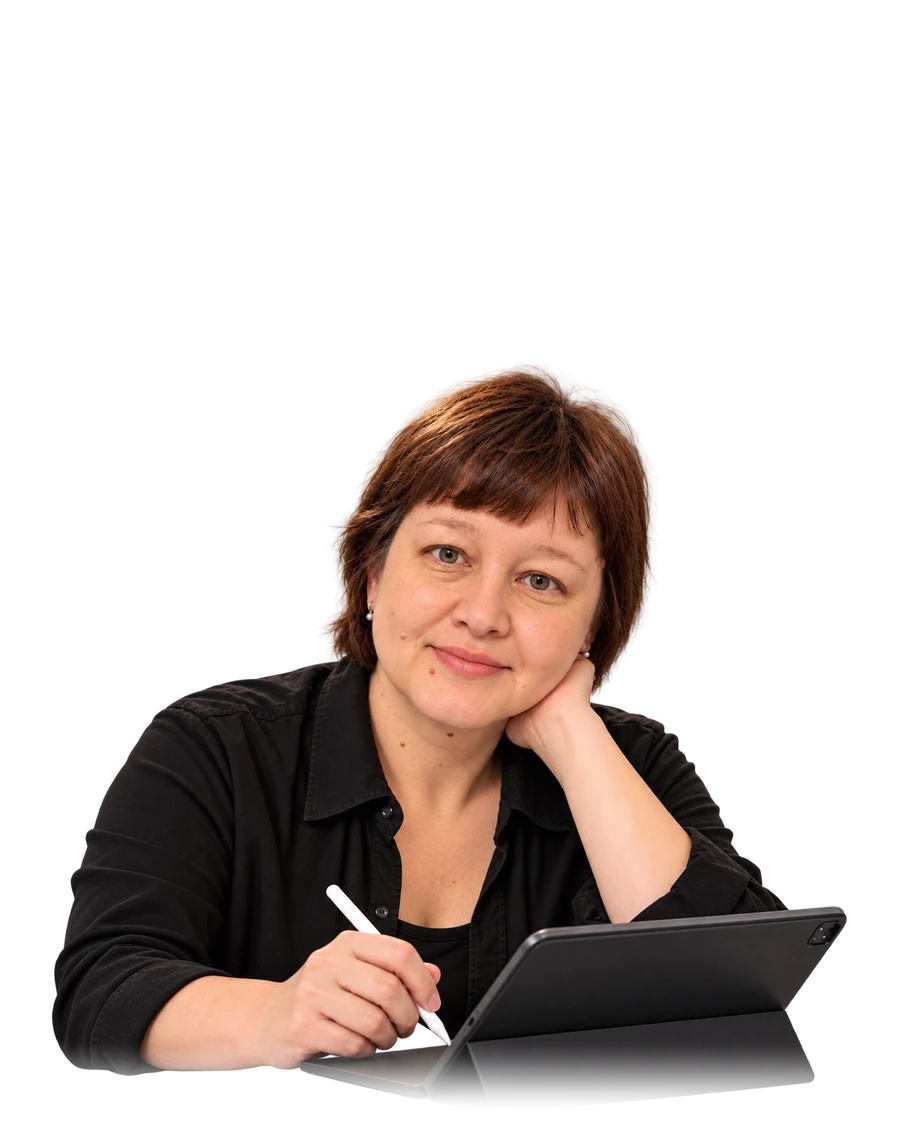
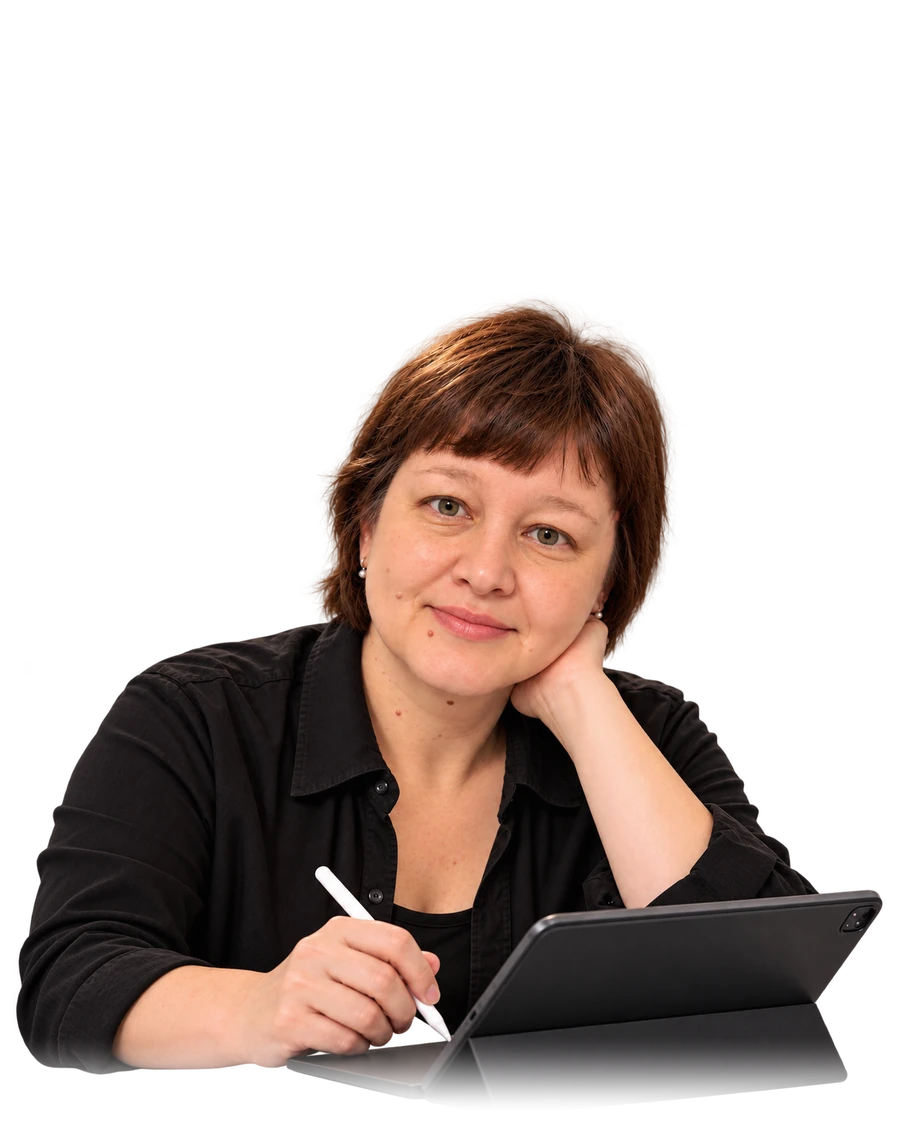
Обновление 03.10 18:34 МСК

Changed region(s): [[0.0, 0.2484, 0.9956, 0.9627], [0.2489, 0.9317, 0.28, 0.9627]]

diff --git a/index.html b/index.html
@@ -201,17 +201,10 @@
 @media (min-width: 900px) { .блок--первый-экран.блок--первый-экран > .блок__внутри { width: calc(100% - 2 * var(--отступ-блока)); } }   /* разворот на компьютере и так на всё окно, фото до края */
 /* по просьбе: на обложке фото без размытого края — туман снизу и по бокам снят (03.10.2026) */
 .первый-экран--разворот.первый-экран--разворот .первый-экран__картинка.картинка--край img { mask-image: none; -webkit-mask-image: none; }
-/* по просьбе: светлый и тёмный блоки перетекают друг в друга, без резкой границы (03.10.2026).
-   Переход живёт в полях тёмного блока: сверху цвет блока над ним, снизу — блока под ним; поля шире на высоту перехода */
-#экран-03, #экран-05, #экран-07, #экран-09 { --переход: clamp(90px, 9vw, 140px); }  /* переход короткий и плавный (03.10.2026: «меньше и плавнее») */
-#экран-03 { background: linear-gradient(rgb(237 230 218 / 1.000) calc(var(--переход) * 0), rgb(237 230 218 / 0.999) calc(var(--переход) * 0.05), rgb(237 230 218 / 0.991) calc(var(--переход) * 0.1), rgb(237 230 218 / 0.973) calc(var(--переход) * 0.15), rgb(237 230 218 / 0.942) calc(var(--переход) * 0.2), rgb(237 230 218 / 0.896) calc(var(--переход) * 0.25), rgb(237 230 218 / 0.837) calc(var(--переход) * 0.3), rgb(237 230 218 / 0.765) calc(var(--переход) * 0.35), rgb(237 230 218 / 0.683) calc(var(--переход) * 0.4), rgb(237 230 218 / 0.593) calc(var(--переход) * 0.45), rgb(237 230 218 / 0.500) calc(var(--переход) * 0.5), rgb(237 230 218 / 0.407) calc(var(--переход) * 0.55), rgb(237 230 218 / 0.317) calc(var(--переход) * 0.6), rgb(237 230 218 / 0.235) calc(var(--переход) * 0.65), rgb(237 230 218 / 0.163) calc(var(--переход) * 0.7), rgb(237 230 218 / 0.104) calc(var(--переход) * 0.75), rgb(237 230 218 / 0.058) calc(var(--переход) * 0.8), rgb(237 230 218 / 0.027) calc(var(--переход) * 0.85), rgb(237 230 218 / 0.009) calc(var(--переход) * 0.9), rgb(237 230 218 / 0.001) calc(var(--переход) * 0.95), rgb(237 230 218 / 0.000) calc(var(--переход) * 1)), linear-gradient(to top, rgb(237 230 218 / 1.000) calc(var(--переход) * 0), rgb(237 230 218 / 0.999) calc(var(--переход) * 0.05), rgb(237 230 218 / 0.991) calc(var(--переход) * 0.1), rgb(237 230 218 / 0.973) calc(var(--переход) * 0.15), rgb(237 230 218 / 0.942) calc(var(--переход) * 0.2), rgb(237 230 218 / 0.896) calc(var(--переход) * 0.25), rgb(237 230 218 / 0.837) calc(var(--переход) * 0.3), rgb(237 230 218 / 0.765) calc(var(--переход) * 0.35), rgb(237 230 218 / 0.683) calc(var(--переход) * 0.4), rgb(237 230 218 / 0.593) calc(var(--переход) * 0.45), rgb(237 230 218 / 0.500) calc(var(--переход) * 0.5), rgb(237 230 218 / 0.407) calc(var(--переход) * 0.55), rgb(237 230 218 / 0.317) calc(var(--переход) * 0.6), rgb(237 230 218 / 0.235) calc(var(--переход) * 0.65), rgb(237 230 218 / 0.163) calc(var(--переход) * 0.7), rgb(237 230 218 / 0.104) calc(var(--переход) * 0.75), rgb(237 230 218 / 0.058) calc(var(--переход) * 0.8), rgb(237 230 218 / 0.027) calc(var(--переход) * 0.85), rgb(237 230 218 / 0.009) calc(var(--переход) * 0.9), rgb(237 230 218 / 0.001) calc(var(--переход) * 0.95), rgb(237 230 218 / 0.000) calc(var(--переход) * 1)), linear-gradient(160deg, #111111, #1E1B17 70%, #111111); }
-#экран-05 { background: linear-gradient(rgb(250 248 244 / 1.000) calc(var(--переход) * 0), rgb(250 248 244 / 0.999) calc(var(--переход) * 0.05), rgb(250 248 244 / 0.991) calc(var(--переход) * 0.1), rgb(250 248 244 / 0.973) calc(var(--переход) * 0.15), rgb(250 248 244 / 0.942) calc(var(--переход) * 0.2), rgb(250 248 244 / 0.896) calc(var(--переход) * 0.25), rgb(250 248 244 / 0.837) calc(var(--переход) * 0.3), rgb(250 248 244 / 0.765) calc(var(--переход) * 0.35), rgb(250 248 244 / 0.683) calc(var(--переход) * 0.4), rgb(250 248 244 / 0.593) calc(var(--переход) * 0.45), rgb(250 248 244 / 0.500) calc(var(--переход) * 0.5), rgb(250 248 244 / 0.407) calc(var(--переход) * 0.55), rgb(250 248 244 / 0.317) calc(var(--переход) * 0.6), rgb(250 248 244 / 0.235) calc(var(--переход) * 0.65), rgb(250 248 244 / 0.163) calc(var(--переход) * 0.7), rgb(250 248 244 / 0.104) calc(var(--переход) * 0.75), rgb(250 248 244 / 0.058) calc(var(--переход) * 0.8), rgb(250 248 244 / 0.027) calc(var(--переход) * 0.85), rgb(250 248 244 / 0.009) calc(var(--переход) * 0.9), rgb(250 248 244 / 0.001) calc(var(--переход) * 0.95), rgb(250 248 244 / 0.000) calc(var(--переход) * 1)), linear-gradient(to top, rgb(250 248 244 / 1.000) calc(var(--переход) * 0), rgb(250 248 244 / 0.999) calc(var(--переход) * 0.05), rgb(250 248 244 / 0.991) calc(var(--переход) * 0.1), rgb(250 248 244 / 0.973) calc(var(--переход) * 0.15), rgb(250 248 244 / 0.942) calc(var(--переход) * 0.2), rgb(250 248 244 / 0.896) calc(var(--переход) * 0.25), rgb(250 248 244 / 0.837) calc(var(--переход) * 0.3), rgb(250 248 244 / 0.765) calc(var(--переход) * 0.35), rgb(250 248 244 / 0.683) calc(var(--переход) * 0.4), rgb(250 248 244 / 0.593) calc(var(--переход) * 0.45), rgb(250 248 244 / 0.500) calc(var(--переход) * 0.5), rgb(250 248 244 / 0.407) calc(var(--переход) * 0.55), rgb(250 248 244 / 0.317) calc(var(--переход) * 0.6), rgb(250 248 244 / 0.235) calc(var(--переход) * 0.65), rgb(250 248 244 / 0.163) calc(var(--переход) * 0.7), rgb(250 248 244 / 0.104) calc(var(--переход) * 0.75), rgb(250 248 244 / 0.058) calc(var(--переход) * 0.8), rgb(250 248 244 / 0.027) calc(var(--переход) * 0.85), rgb(250 248 244 / 0.009) calc(var(--переход) * 0.9), rgb(250 248 244 / 0.001) calc(var(--переход) * 0.95), rgb(250 248 244 / 0.000) calc(var(--переход) * 1)), linear-gradient(160deg, #111111, #1E1B17 70%, #111111); }
-#экран-07 { background: linear-gradient(rgb(237 230 218 / 1.000) calc(var(--переход) * 0), rgb(237 230 218 / 0.999) calc(var(--переход) * 0.05), rgb(237 230 218 / 0.991) calc(var(--переход) * 0.1), rgb(237 230 218 / 0.973) calc(var(--переход) * 0.15), rgb(237 230 218 / 0.942) calc(var(--переход) * 0.2), rgb(237 230 218 / 0.896) calc(var(--переход) * 0.25), rgb(237 230 218 / 0.837) calc(var(--переход) * 0.3), rgb(237 230 218 / 0.765) calc(var(--переход) * 0.35), rgb(237 230 218 / 0.683) calc(var(--переход) * 0.4), rgb(237 230 218 / 0.593) calc(var(--переход) * 0.45), rgb(237 230 218 / 0.500) calc(var(--переход) * 0.5), rgb(237 230 218 / 0.407) calc(var(--переход) * 0.55), rgb(237 230 218 / 0.317) calc(var(--переход) * 0.6), rgb(237 230 218 / 0.235) calc(var(--переход) * 0.65), rgb(237 230 218 / 0.163) calc(var(--переход) * 0.7), rgb(237 230 218 / 0.104) calc(var(--переход) * 0.75), rgb(237 230 218 / 0.058) calc(var(--переход) * 0.8), rgb(237 230 218 / 0.027) calc(var(--переход) * 0.85), rgb(237 230 218 / 0.009) calc(var(--переход) * 0.9), rgb(237 230 218 / 0.001) calc(var(--переход) * 0.95), rgb(237 230 218 / 0.000) calc(var(--переход) * 1)), linear-gradient(to top, rgb(250 248 244 / 1.000) calc(var(--переход) * 0), rgb(250 248 244 / 0.999) calc(var(--переход) * 0.05), rgb(250 248 244 / 0.991) calc(var(--переход) * 0.1), rgb(250 248 244 / 0.973) calc(var(--переход) * 0.15), rgb(250 248 244 / 0.942) calc(var(--переход) * 0.2), rgb(250 248 244 / 0.896) calc(var(--переход) * 0.25), rgb(250 248 244 / 0.837) calc(var(--переход) * 0.3), rgb(250 248 244 / 0.765) calc(var(--переход) * 0.35), rgb(250 248 244 / 0.683) calc(var(--переход) * 0.4), rgb(250 248 244 / 0.593) calc(var(--переход) * 0.45), rgb(250 248 244 / 0.500) calc(var(--переход) * 0.5), rgb(250 248 244 / 0.407) calc(var(--переход) * 0.55), rgb(250 248 244 / 0.317) calc(var(--переход) * 0.6), rgb(250 248 244 / 0.235) calc(var(--переход) * 0.65), rgb(250 248 244 / 0.163) calc(var(--переход) * 0.7), rgb(250 248 244 / 0.104) calc(var(--переход) * 0.75), rgb(250 248 244 / 0.058) calc(var(--переход) * 0.8), rgb(250 248 244 / 0.027) calc(var(--переход) * 0.85), rgb(250 248 244 / 0.009) calc(var(--переход) * 0.9), rgb(250 248 244 / 0.001) calc(var(--переход) * 0.95), rgb(250 248 244 / 0.000) calc(var(--переход) * 1)), linear-gradient(160deg, #111111, #1E1B17 70%, #111111); }
-#экран-09 { background: linear-gradient(rgb(250 248 244 / 1.000) calc(var(--переход) * 0), rgb(250 248 244 / 0.999) calc(var(--переход) * 0.05), rgb(250 248 244 / 0.991) calc(var(--переход) * 0.1), rgb(250 248 244 / 0.973) calc(var(--переход) * 0.15), rgb(250 248 244 / 0.942) calc(var(--переход) * 0.2), rgb(250 248 244 / 0.896) calc(var(--переход) * 0.25), rgb(250 248 244 / 0.837) calc(var(--переход) * 0.3), rgb(250 248 244 / 0.765) calc(var(--переход) * 0.35), rgb(250 248 244 / 0.683) calc(var(--переход) * 0.4), rgb(250 248 244 / 0.593) calc(var(--переход) * 0.45), rgb(250 248 244 / 0.500) calc(var(--переход) * 0.5), rgb(250 248 244 / 0.407) calc(var(--переход) * 0.55), rgb(250 248 244 / 0.317) calc(var(--переход) * 0.6), rgb(250 248 244 / 0.235) calc(var(--переход) * 0.65), rgb(250 248 244 / 0.163) calc(var(--переход) * 0.7), rgb(250 248 244 / 0.104) calc(var(--переход) * 0.75), rgb(250 248 244 / 0.058) calc(var(--переход) * 0.8), rgb(250 248 244 / 0.027) calc(var(--переход) * 0.85), rgb(250 248 244 / 0.009) calc(var(--переход) * 0.9), rgb(250 248 244 / 0.001) calc(var(--переход) * 0.95), rgb(250 248 244 / 0.000) calc(var(--переход) * 1)), linear-gradient(to top, rgb(250 248 244 / 1.000) calc(var(--переход) * 0), rgb(250 248 244 / 0.999) calc(var(--переход) * 0.05), rgb(250 248 244 / 0.991) calc(var(--переход) * 0.1), rgb(250 248 244 / 0.973) calc(var(--переход) * 0.15), rgb(250 248 244 / 0.942) calc(var(--переход) * 0.2), rgb(250 248 244 / 0.896) calc(var(--переход) * 0.25), rgb(250 248 244 / 0.837) calc(var(--переход) * 0.3), rgb(250 248 244 / 0.765) calc(var(--переход) * 0.35), rgb(250 248 244 / 0.683) calc(var(--переход) * 0.4), rgb(250 248 244 / 0.593) calc(var(--переход) * 0.45), rgb(250 248 244 / 0.500) calc(var(--переход) * 0.5), rgb(250 248 244 / 0.407) calc(var(--переход) * 0.55), rgb(250 248 244 / 0.317) calc(var(--переход) * 0.6), rgb(250 248 244 / 0.235) calc(var(--переход) * 0.65), rgb(250 248 244 / 0.163) calc(var(--переход) * 0.7), rgb(250 248 244 / 0.104) calc(var(--переход) * 0.75), rgb(250 248 244 / 0.058) calc(var(--переход) * 0.8), rgb(250 248 244 / 0.027) calc(var(--переход) * 0.85), rgb(250 248 244 / 0.009) calc(var(--переход) * 0.9), rgb(250 248 244 / 0.001) calc(var(--переход) * 0.95), rgb(250 248 244 / 0.000) calc(var(--переход) * 1)), linear-gradient(160deg, #111111, #1E1B17 70%, #111111); }
-#экран-03.блок.блок, #экран-05.блок.блок, #экран-07.блок.блок, #экран-09.блок.блок { padding-block: calc(var(--отступ-секции) * .5 + var(--переход) * .7); }
+/* тёмные блоки — снова с чёткой границей (03.10.2026: «верни чёткие границы между тёмным и светлым»); плавные переходы сняты */
 /* фото на обложке крупнее — по просьбе владелицы (03.10.2026): на компьютере шире рамки, ближе к тексту и ниже; на телефоне рамка шире */
 @media (min-width: 900px) { .первый-экран--разворот .первый-экран__картинка img { width: calc(100% + 60px); max-width: none; } }
-@media (max-width: 599px) { .блок--первый-экран.блок--первый-экран .первый-экран__картинка { width: 92%; } }
+@media (max-width: 599px) { .блок--первый-экран.блок--первый-экран .первый-экран__картинка { width: 100%; margin-top: -122px; position: relative; z-index: 1; } }  /* телефон: фото крупнее и выше, макушка ~1 см под надписью (03.10.2026) */
 /* обложка мягко перетекает во второй экран, без полосы — по просьбе владелицы (03.10.2026) */
 #экран-1 { --переход: clamp(90px, 9vw, 140px); isolation: isolate; }
 #экран-1 .пятно { z-index: -1; }

diff --git a/style.css b/style.css
@@ -1851,6 +1851,7 @@ h2 .хвост-акцент { display: block; font-weight: 600; font-size: .6em;
   @media (min-width: 900px) { #экран-07 .кикер--вверху { display: none; } #экран-07 .кикер--над-текстом { display: flex; width: fit-content; } }
   #экран-07 .знакомство { display: grid; grid-template-columns: minmax(0, 7fr) minmax(0, 5fr); gap: clamp(28px, 5vw, 80px); align-items: center; }
   @media (min-width: 900px) { #экран-07 .портрет { order: 2; } }
+  @media (min-width: 900px) { #экран-07 .знакомство { grid-template-columns: minmax(0, 1fr) minmax(0, 1fr); } }
   #экран-07 .портрет { position: relative; margin: 0; }
   #экран-07 .портрет img { display: block; width: 100%; height: auto; }
   #экран-07 .портрет .заглушка-картинки { min-height: 0; aspect-ratio: 4 / 5; border-radius: var(--радиус-карточки); }
